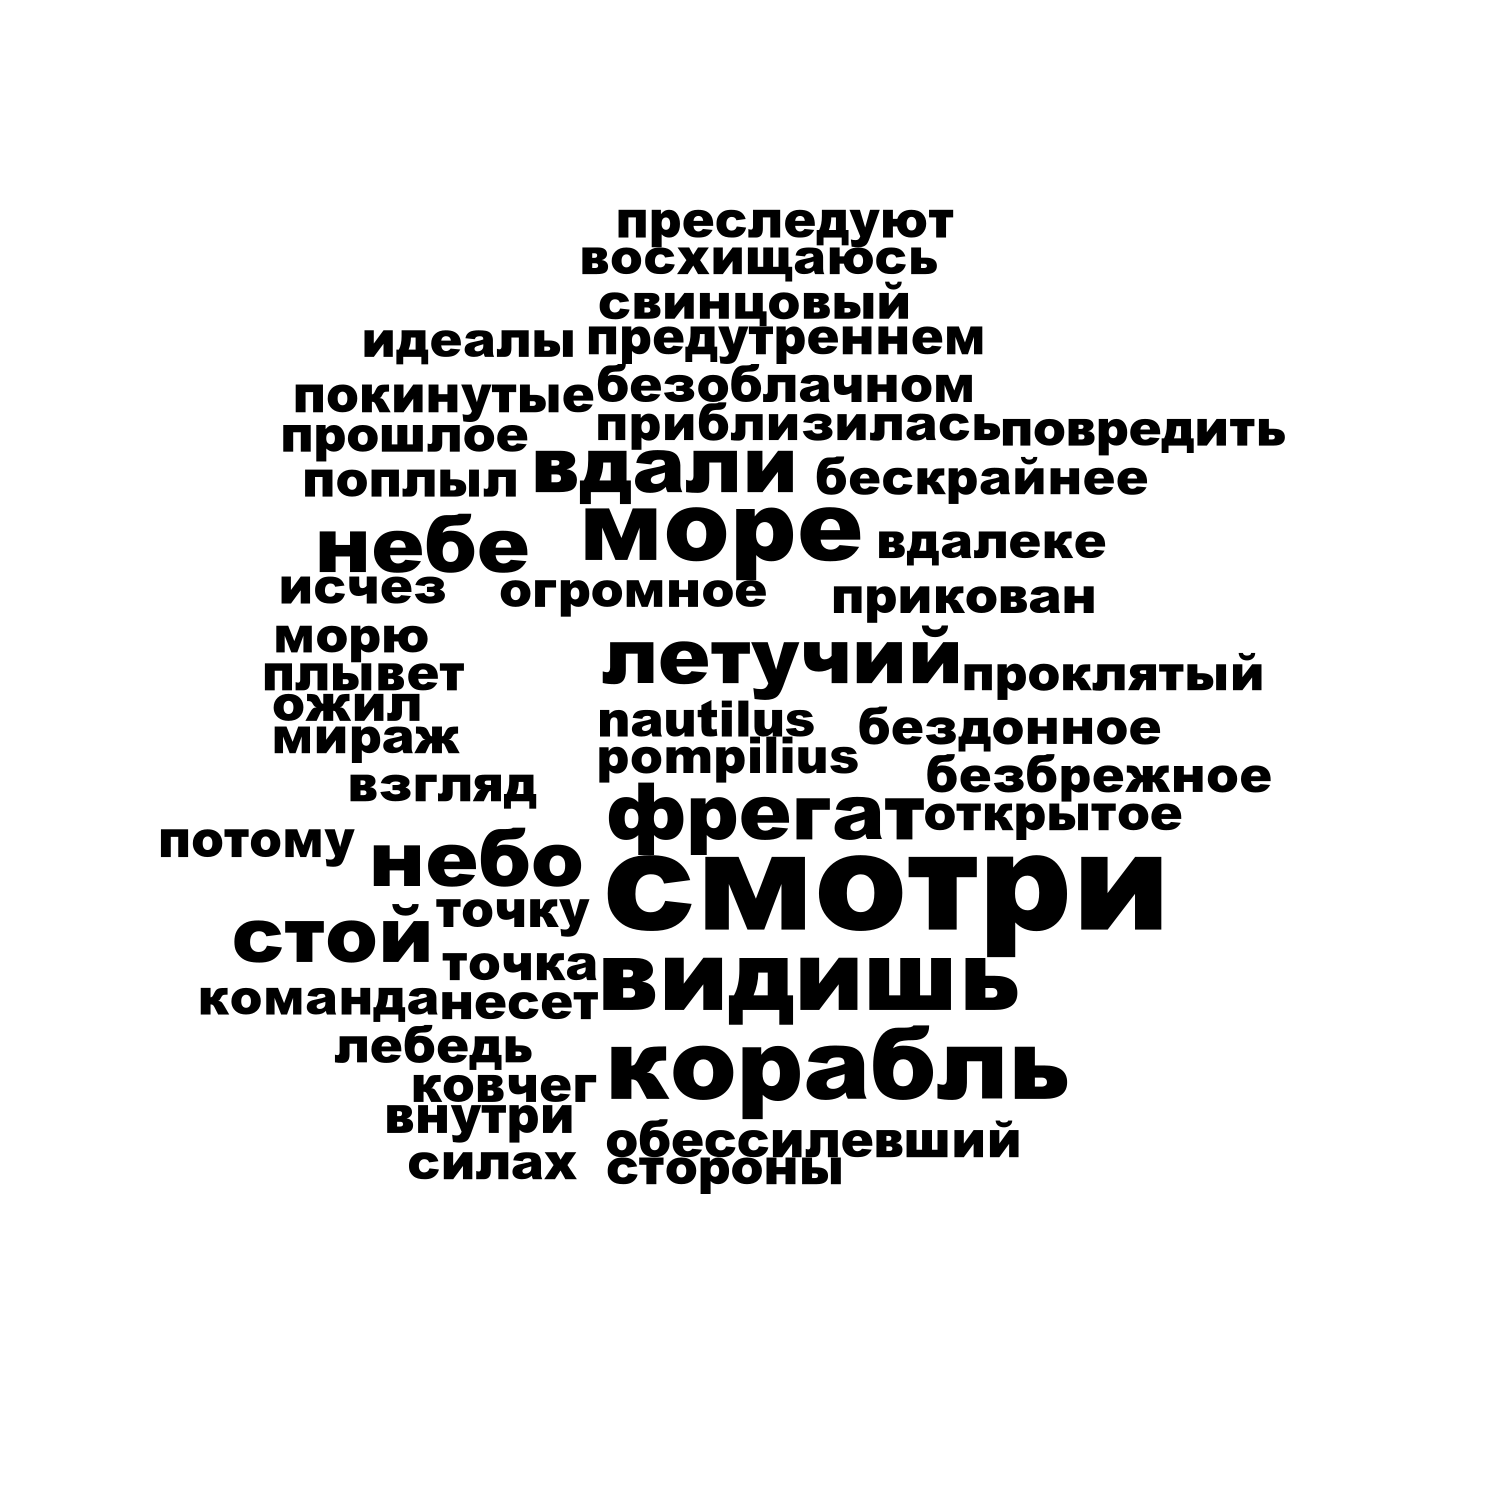
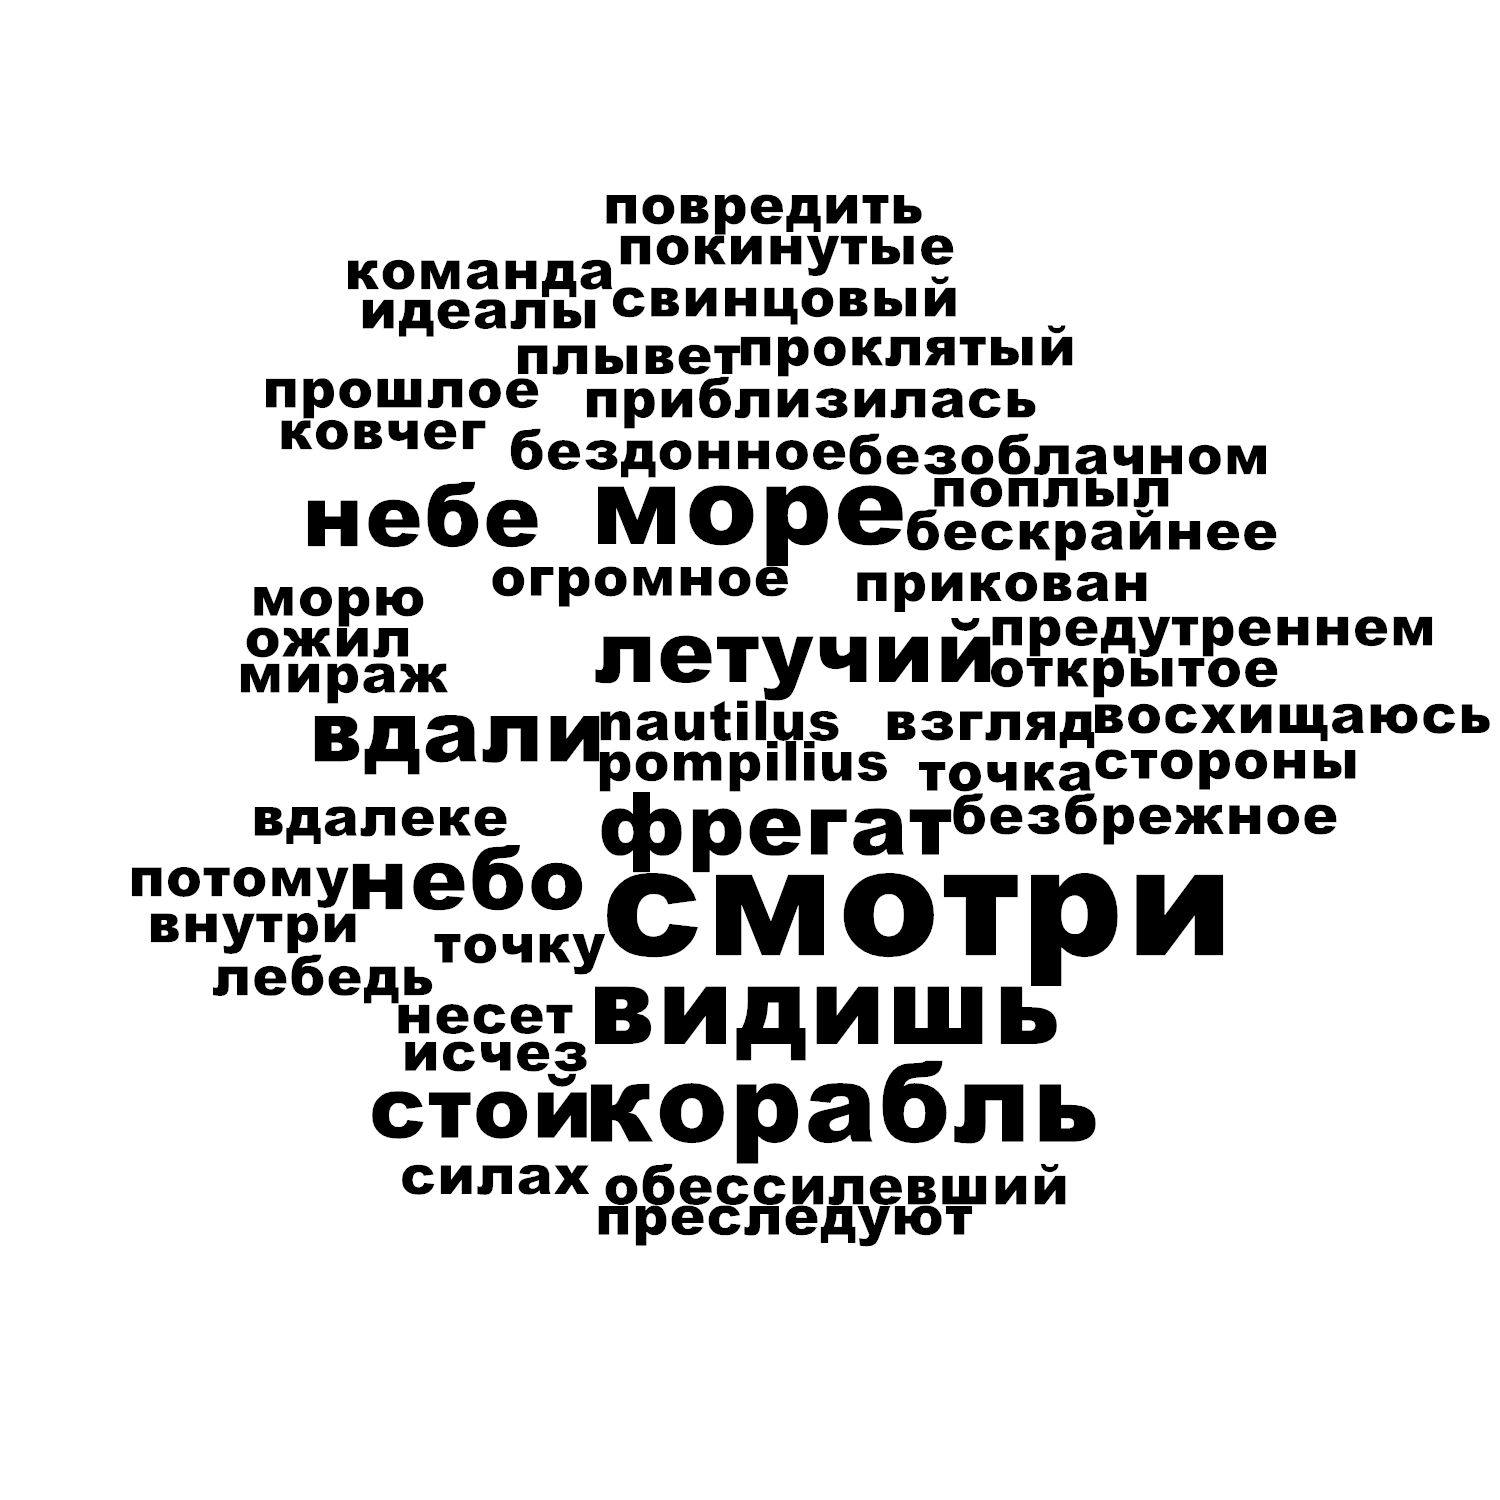
Update nuget packages

Changed region(s): [[0.092, 0.1227, 1.0, 0.828]]

diff --git a/TagsCloud/TagsCloudApplication/Program.cs b/TagsCloud/TagsCloudApplication/Program.cs
@@ -21,10 +21,10 @@ namespace TagsCloudApplication
             var textInput = File.ReadAllText(Path.Combine(projectDirectory, "Example", "wordsInput.txt"));
             var textPreparer = new TextPreparer(new TextPreparerConfig().Excluding(wordsToExclude));
             var words = textPreparer.GetWordsByFrequency(textInput);
-            var fontProperties = new FontProperties("Arial Black", 36);
+            var fontProperties = new FontProperties("Arial Black", 60);
             var style = new Style(new GrayTheme(), fontProperties, new WordSizeCalculatorLogarithmic());
             var visualizer = new TextNoRectanglesVisualizer();
-            var layouter = new SpiralCloudLayouter(new Spiral(new Point(600, 700), 0.1f, 0.1f));
+            var layouter = new SpiralCloudLayouter(new Spiral(new PointF(600, 700), 0.1f, 0.1f));
             var cloud = new Cloud(words, style, visualizer, layouter);
 
             cloud
